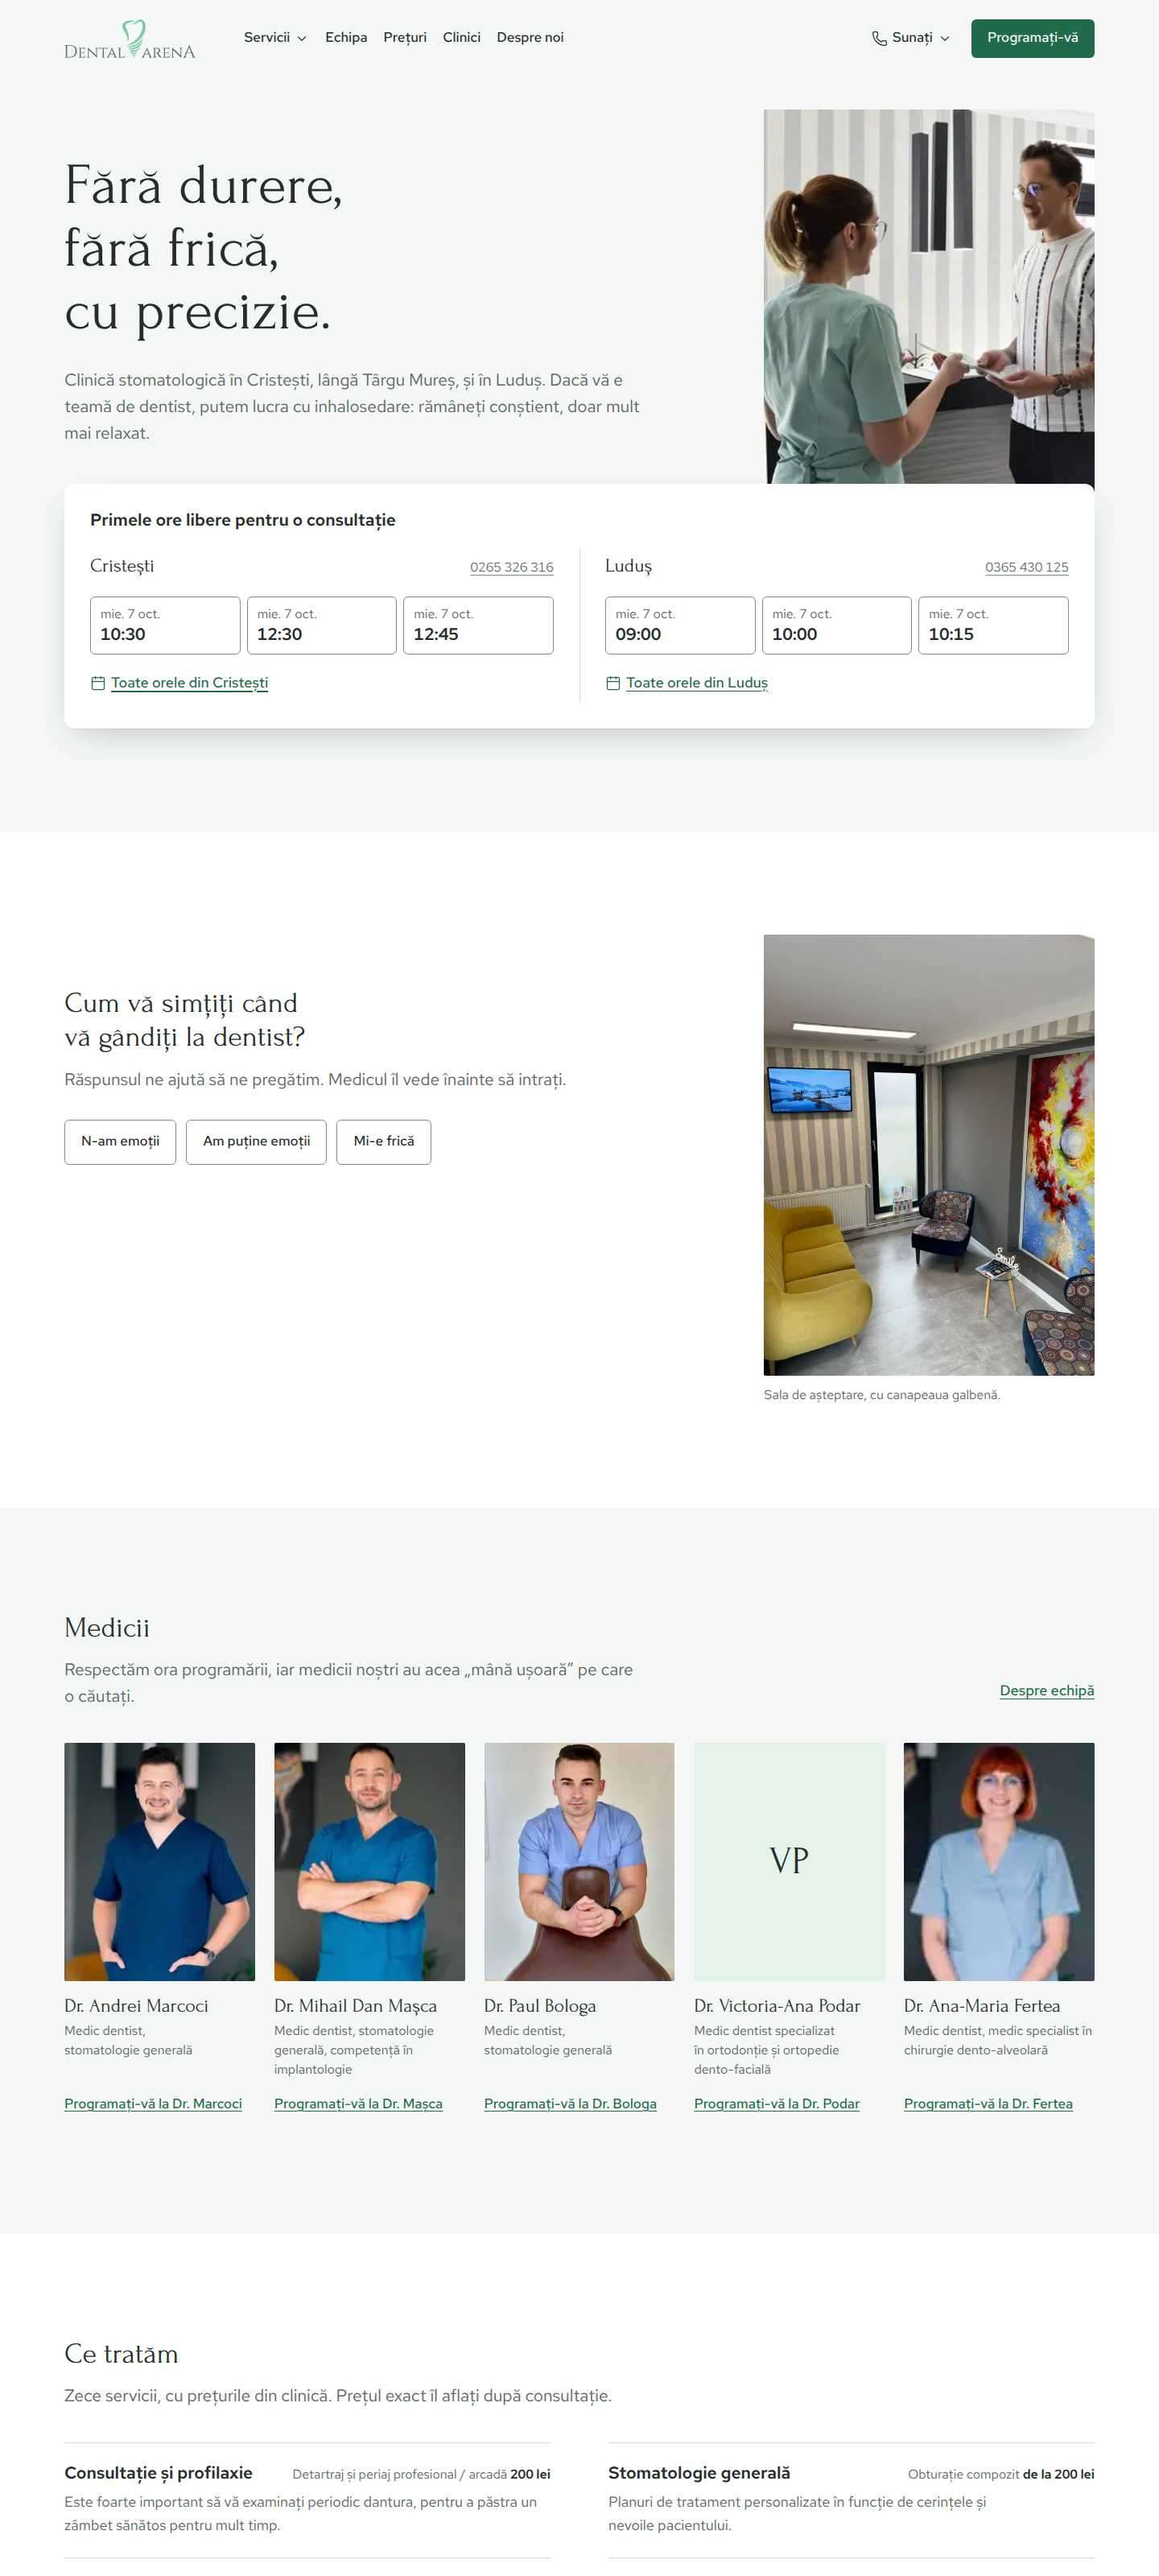
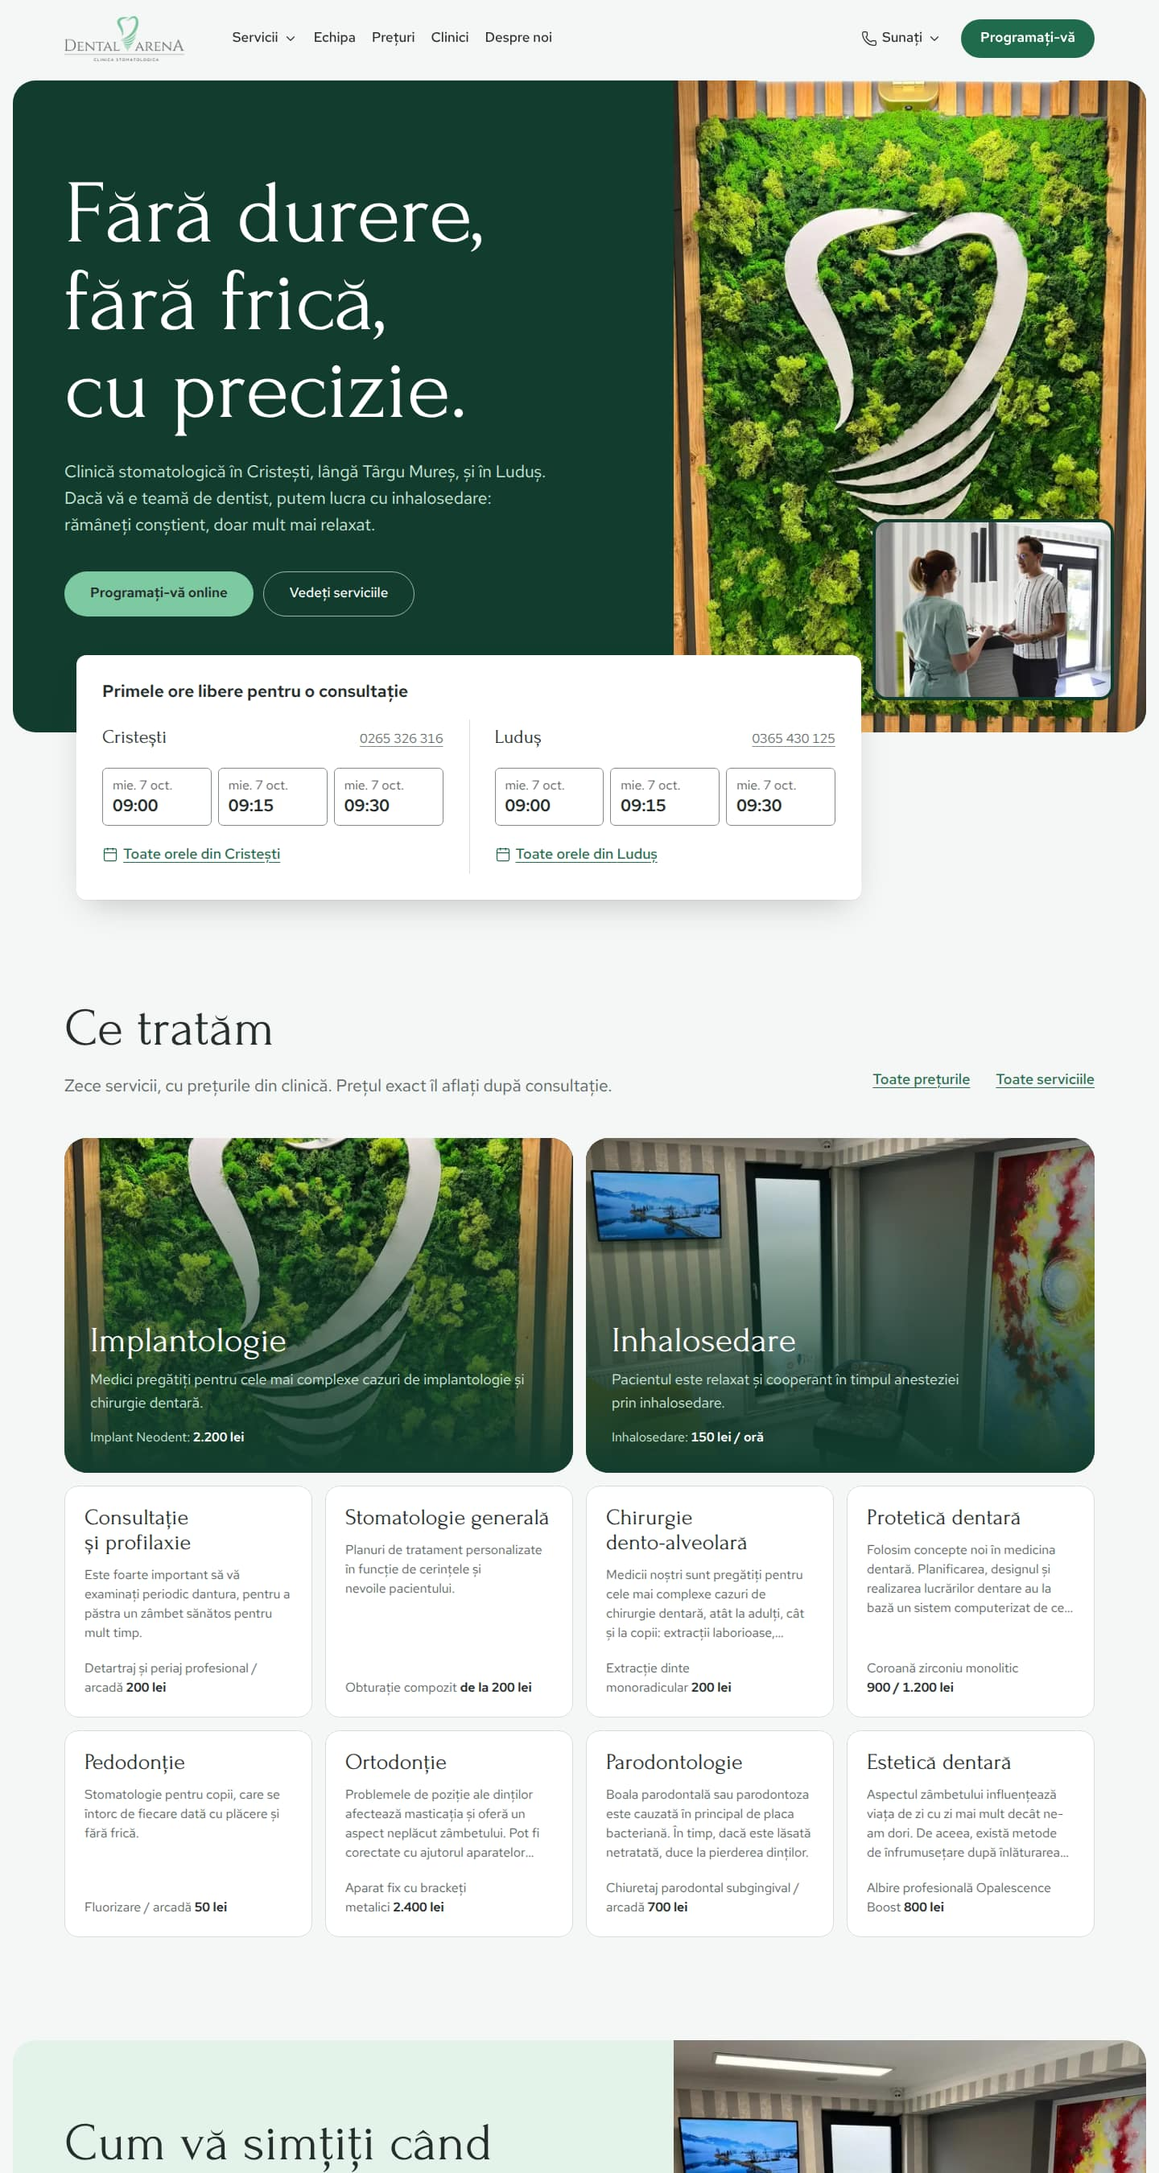
Tests for site photos, nav update, lint ignores, new screenshots and README
Claude-Session: https://claude.ai/code/session_0118ZfxuuQswggd22nBqm9nz

diff --git a/src/server/media/__tests__/site-images.test.ts b/src/server/media/__tests__/site-images.test.ts
@@ -1,0 +1,86 @@
+import { existsSync, readdirSync } from "node:fs";
+import path from "node:path";
+import sharp from "sharp";
+import { describe, expect, it, vi } from "vitest";
+
+vi.hoisted(() => {
+  process.env.DATABASE_URL = "file:./prisma/test.db";
+  // eslint-disable-next-line @typescript-eslint/no-require-imports
+  const { mkdtempSync: mk } = require("node:fs") as typeof import("node:fs");
+  // eslint-disable-next-line @typescript-eslint/no-require-imports
+  const { tmpdir: td } = require("node:os") as typeof import("node:os");
+  process.env.STORAGE_DIR = mk(`${td()}/da-media-`);
+});
+
+import type { CurrentUser } from "@/lib/auth/dal";
+import { SITE_IMAGE_SLOTS } from "@/content/site-images";
+import { getSiteImage, listSiteImages, mediaDir, mediaFilePath, readMediaFile, resetSiteImage, saveSiteImage } from "../site-images";
+
+const admin: CurrentUser = {
+  id: "media-admin",
+  role: "ADMIN",
+  email: "media@example.com",
+  firstName: "Ana",
+  lastName: "Admin",
+  displayName: "Ana Admin",
+  doctorId: null,
+  homeLocationId: null,
+  locationIds: [],
+  theme: "SISTEM",
+  density: "COMPACT",
+  mustChangePassword: false,
+};
+
+async function photo(width: number, height: number): Promise<File> {
+  const buf = await sharp({ create: { width, height, channels: 3, background: "#2a7d5a" } }).jpeg().toBuffer();
+  return new File([new Uint8Array(buf)], "poza.jpg", { type: "image/jpeg" });
+}
+
+describe("site photos", () => {
+  it("has a default photo for every place, from the current site", async () => {
+    for (const s of SITE_IMAGE_SLOTS) expect(s.default.src).toMatch(/^\/images\//);
+    expect(new Set(SITE_IMAGE_SLOTS.map((s) => s.key)).size).toBe(SITE_IMAGE_SLOTS.length);
+    expect((await getSiteImage("acasa.principala")).src).toBe("/images/clinica/perete-muschi.jpg");
+  });
+
+  it("only serves file names it created (no path traversal)", () => {
+    expect(mediaFilePath("../.env")).toBeNull();
+    expect(mediaFilePath("a/b.webp")).toBeNull();
+    expect(mediaFilePath("acasa-principala-abc123.webp")).toBe(path.join(mediaDir(), "acasa-principala-abc123.webp"));
+  });
+
+  it("resizes an upload to WebP of at most 2400px and shows it at its place", async () => {
+    await saveSiteImage("acasa.confort", await photo(4000, 3000), "Sala de așteptare", admin);
+    const img = await getSiteImage("acasa.confort");
+    expect(img.src).toMatch(/^\/media\/acasa-confort-[a-z0-9]+\.webp$/);
+    expect(img.width).toBe(2400);
+    expect(img.height).toBe(1800);
+    expect(img.alt).toBe("Sala de așteptare");
+    const data = await readMediaFile(img.src.slice("/media/".length));
+    expect((await sharp(data!).metadata()).format).toBe("webp");
+    const row = (await listSiteImages()).find((r) => r.key === "acasa.confort")!;
+    expect(row.isDefault).toBe(false);
+  });
+
+  it("replacing a photo deletes the old file; reset brings back the default", async () => {
+    await saveSiteImage("acasa.copii", await photo(800, 600), "", admin);
+    const first = (await getSiteImage("acasa.copii")).src;
+    await saveSiteImage("acasa.copii", await photo(900, 600), "", admin);
+    const second = (await getSiteImage("acasa.copii")).src;
+    expect(second).not.toBe(first);
+    expect(existsSync(mediaFilePath(first.slice(7))!)).toBe(false);
+    await resetSiteImage("acasa.copii", admin);
+    expect((await getSiteImage("acasa.copii")).src).toBe("/images/clinica/cabinet-plaja.jpg");
+    expect(existsSync(mediaFilePath(second.slice(7))!)).toBe(false);
+  });
+
+  it("refuses files that are not photos, and unknown places", async () => {
+    const text = new File(["nu este o poză"], "poza.jpg", { type: "image/jpeg" });
+    await expect(saveSiteImage("acasa.tehnologie", text, "", admin)).rejects.toMatchObject({ code: "VALIDATION" });
+    const pdf = new File(["%PDF-1.4"], "doc.pdf", { type: "application/pdf" });
+    await expect(saveSiteImage("acasa.tehnologie", pdf, "", admin)).rejects.toMatchObject({ code: "VALIDATION" });
+    await expect(saveSiteImage("nu.exista", await photo(10, 10), "", admin)).rejects.toMatchObject({ code: "NOT_FOUND" });
+    expect(readdirSync(mediaDir()).every((f) => f.endsWith(".webp"))).toBe(true);
+  });
+});
+

diff --git a/src/components/crm/shell/__tests__/shell.test.ts b/src/components/crm/shell/__tests__/shell.test.ts
@@ -34,6 +34,7 @@ describe("sidebar items (nav.ts)", () => {
       "Rapoarte",
       "GDPR",
       "Audit",
+      "Fotografii site",
       "Setări",
     ]);
     expect(NAV_ITEMS.map((i) => i.href)).toEqual([
@@ -52,6 +53,7 @@ describe("sidebar items (nav.ts)", () => {
       "/crm/rapoarte",
       "/crm/gdpr",
       "/crm/audit",
+      "/crm/fotografii",
       "/crm/setari",
     ]);
   });
@@ -67,7 +69,7 @@ describe("sidebar items (nav.ts)", () => {
   it("shows RECEPTIE the front-desk modules but not GDPR, Audit or Setări", () => {
     const receptie = labels("RECEPTIE");
     expect(receptie).toEqual(expect.arrayContaining(["Cereri online", "Încasări", "Facturi", "Mesaje", "Rapoarte"]));
-    for (const hidden of ["GDPR", "Audit", "Setări"]) expect(receptie).not.toContain(hidden);
+    for (const hidden of ["GDPR", "Audit", "Setări", "Fotografii site"]) expect(receptie).not.toContain(hidden);
   });
 
   it("carries the count badges", () => {

diff --git a/README.md b/README.md
@@ -28,6 +28,21 @@ npm test
 npm run build
 ```
 
+## Instalare pe cPanel
+
+```bash
+npm run build:cpanel        # face deploy/dental-arena-cpanel.zip
+```
+
+Pașii de instalare pe hosting (Setup Node.js App, fișierul `.env`, Cron Jobs, actualizări, copii de siguranță) sunt în `docs/cpanel.md`.
+
+## Ce se administrează din panou
+
+- **Echipă:** conturi noi, cu bifă pentru clinica în care lucrează fiecare (Cristești, Luduș sau ambele). Un utilizator vede doar datele clinicilor bifate. Tot aici se încarcă fotografia fiecărui medic.
+- **Servicii și prețuri:** serviciile fiecărei pagini de pe site și prețurile lor; se pot adăuga servicii noi.
+- **Fotografii site:** toate fotografiile site-ului, cu încărcare directă și revenire la fotografia inițială.
+- **Setări:** datele firmei (denumire, CUI, Reg. Com., sediu, IBAN, bancă), regulile de programare online, reamintirile.
+
 ## Documentație
 
 - `docs/architecture.md`: arhitectura, schema bazei de date, roluri și permisiuni
@@ -38,6 +53,8 @@ npm run build
 ## Înainte de lansare
 
 - Datele firmei (denumire, CUI, Reg. Com., sediu, IBAN) în Setări.
+- Prețurile, în Servicii și prețuri.
+- Fotografiile, în Fotografii site și pe profilul fiecărui medic.
 - Programul real al clinicilor și al medicilor (acum este demonstrativ).
 - Secrete noi în `.env` (`AUTH_SECRET`, `PII_ENCRYPTION_KEY`, `CRON_SECRET`) și SMTP pentru email.
-- Un job programat care apelează `/api/cron/reminders` (remindere cu 24h înainte).
+- Cron Jobs pentru `/api/cron/reminders` și `/api/cron/maintenance` (vezi `docs/cpanel.md`).
